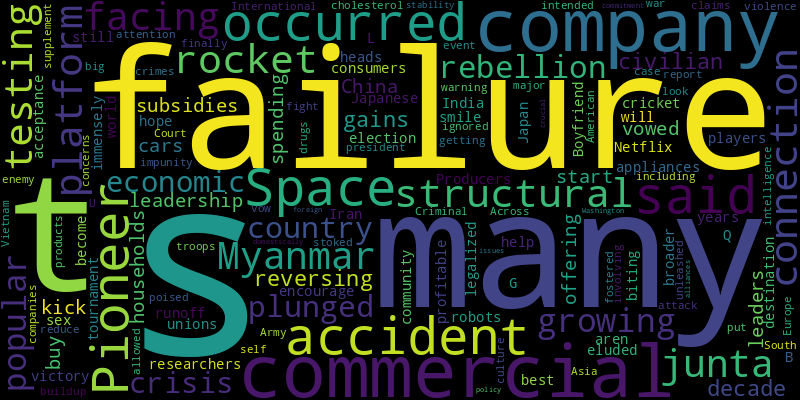
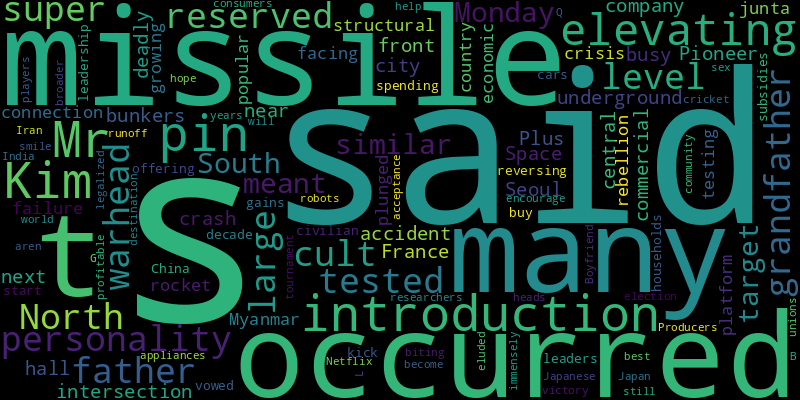
chore(bot): 👻 auto commit

diff --git a/README.md b/README.md
@@ -2,41 +2,41 @@
 Auto RSS New York Times and Generate Word Cloud
 
 ## New York Times Global News
-* Many expressed shock that Marine Le Pen’s nationalist party was so close to power after the first round of a snap election.
-* It was a big day for the far-right National Rally. Just how big will not be clear until a second round of voting is over.
-* The departure of the United Nations’ top relief official added uncertainty to the struggling efforts to get food, fuel and other supplies into the territory.
-* In the towns of Tulkarm and Jenin, armed militants are flocking to more hard-line factions, such as Hamas and Islamic Jihad, while the Israeli military tries to rein them in.
-* A battle over the history of Britain’s prized country houses offers a window into the national mood before a pivotal election.
-* A surprise decision by President Emmanuel Macron to hold a snap election appears to have backfired badly, giving the National Rally a decisive victory.
-* He was compared to Orwell and Kafka, and walked a political tightrope with works of veiled criticism for his totalitarian state.
-* Myanmar’s junta, facing a growing popular rebellion, has plunged the country into economic crisis, reversing gains from a decade of civilian leadership.
-* In India, cricket has become immensely profitable and a destination for the world’s best players. But a tournament victory had eluded it for many years.
-* A barrage on Vilniansk, a town in the south, killed seven, including three children, as attacks across Ukraine in the past few days have left dozens dead, according to local authorities.
+* Israeli forces fired at areas of Khan Younis from which a rocket barrage had been launched a day earlier, the military said.
+* Israel’s military leadership wants a cease-fire with Hamas in case a bigger war breaks out in Lebanon, security officials say. It has also concluded that a truce would be the swiftest way to free hostages.
+* The Labour leader still struggles with the “performative side” of British politics, even as he has pulled his party to the center.
+* Prime Minister Viktor Orban of Hungary, who has resisted European military and financial aid for Ukraine, traveled to the country to meet with President Volodymyr Zelensky.
+* Driven by the war with Russia, many Ukrainian companies are working on a major leap forward in the weaponization of consumer technology.
+* The North said it tested a missile with a “super-large warhead” on Monday. The South has similar missiles, meant to target underground bunkers.
+* With the introduction of the pin, Mr. Kim is said to be elevating his personality cult to the level once reserved for his father and grandfather.
+* Squeezed by the far-right National Rally party and the left, President Emmanuel Macron faces a country that may prove ungovernable.
+* The far-right National Rally won big in the first round of voting. Just how big will not be clear until after runoffs are held on July 7.
+* While the viability of the plan was not immediately clear, officials said it was a reminder that the Kremlin remained determined to bring down President Volodymyr Zelensky.
 
 ![Global](./global.png)
 ## New York Times United States News
-* Beacon, a golden retriever, began working with U.S.A. Gymnastics last year as part of the organization’s efforts to transform the sport’s toxic culture. More dogs quickly followed.
-* A military lab found distinctive damage from repeated blast exposure in every brain it tested, but Navy SEAL leaders were kept in the dark about the pattern.
-* A measure seeking to protect abortion access in the State Constitution will appear on the ballot. It is one of nearly a dozen such initiatives that could shape other races this election.
+* The jurors said they were “deeply divided” over whether Ms. Read killed her boyfriend, a Boston police officer; prosecutors said they would try the case again.
+* Organizers have until Friday to collect enough signatures to put abortion access on the ballot this fall in a state where conservative and evangelical values run deep.
+* Federal pandemic aid helped keep school districts afloat, but that money is coming to an end.
 * Doctors at the University of California, San Francisco, say that the workplace they once loved has been fractured by the Israel-Hamas war.
-* The ad doesn’t show footage of the president’s halting debate showing, focusing instead on his energetic appearance at a rally the next day.
-* An 81-year-old candidate and no Plan B. “How did we get here?” one leading Democrat asks. The answer is complicated.
-* Los Angeles schools hired a start-up to build an A.I. chatbot for parents and students. A few months later, the company collapsed.
-* President Biden is trying to figure out how to tamp down Democratic anxiety after last week’s disastrous debate performance.
-* Critics of the approach say it risks making President Biden and his campaign seem woefully out of touch with the voters they need to win.
-* Organizers of a plan to adorn some trains with googly eyes said that if the trains could not be reliable, they could at least make commuters smile.
+* The campaign, in a release weeks before the federal filing deadline, said it had raised $127 million in June together with the Democratic Party.
+* Confronting steep debts and some layoffs, Robert F. Kennedy Jr.’s campaign is increasingly consumed by the battle for ballot access, with his allies quietly putting money into a new legal fund.
+* The state’s prison system has faced recent scrutiny for failing to care for inmates.
+* Senator Sheldon Whitehouse of Rhode Island said he was “horrified" by the debate. Representative Debbie Dingell said “the campaign needs to listen to us.”
+* Beyond Donald J. Trump, the decision adds to the seemingly one-way ratchet of executive authority.
+* A post that Mr. Trump circulated on Sunday called for Liz Cheney to be prosecuted by a military court reserved for enemy combatants and war criminals.
 
 ![US](./usnews.png)
 ## New York Times Asia News
+* With the introduction of the pin, Mr. Kim is said to be elevating his personality cult to the level once reserved for his father and grandfather.
+* The North said it tested a missile with a “super-large warhead” on Monday. The South has similar missiles, meant to target underground bunkers.
+* Plus, what’s next for France.
+* The deadly crash occurred near a busy intersection in front of city hall in central Seoul.
 * The commercial company Space Pioneer said the accident occurred because of a structural failure in the connection between the rocket and its testing platform.
 * Myanmar’s junta, facing a growing popular rebellion, has plunged the country into economic crisis, reversing gains from a decade of civilian leadership.
 * China’s leaders vowed to kick-start spending by offering subsidies for households to buy cars and appliances. But many consumers aren’t biting.
 * Also, Iran’s election heads to a runoff and Japanese researchers help robots smile.
 * Producers of “The Boyfriend” on Netflix hope it will encourage broader acceptance of the L.G.B.T.Q. community in Japan, which still has not legalized same-sex unions.
 * In India, cricket has become immensely profitable and a destination for the world’s best players. But a tournament victory had eluded it for many years.
-* A president’s vow to fight drugs unleashed violence and fostered a culture of impunity. But the crimes are finally getting a look, including from the International Criminal Court.
-* Her warning of a big buildup of enemy troops poised to attack South Vietnam in 1968 was ignored, a major U.S. Army intelligence failure during the war.
-* The case, involving a supplement intended to reduce cholesterol, has put attention on how companies are allowed to self-report claims about their products.
-* Across Asia and Europe, the event stoked concerns about American stability, both domestically and on crucial foreign policy issues like Washington’s commitment to alliances.
 
 ![Asian](./asian.png)
